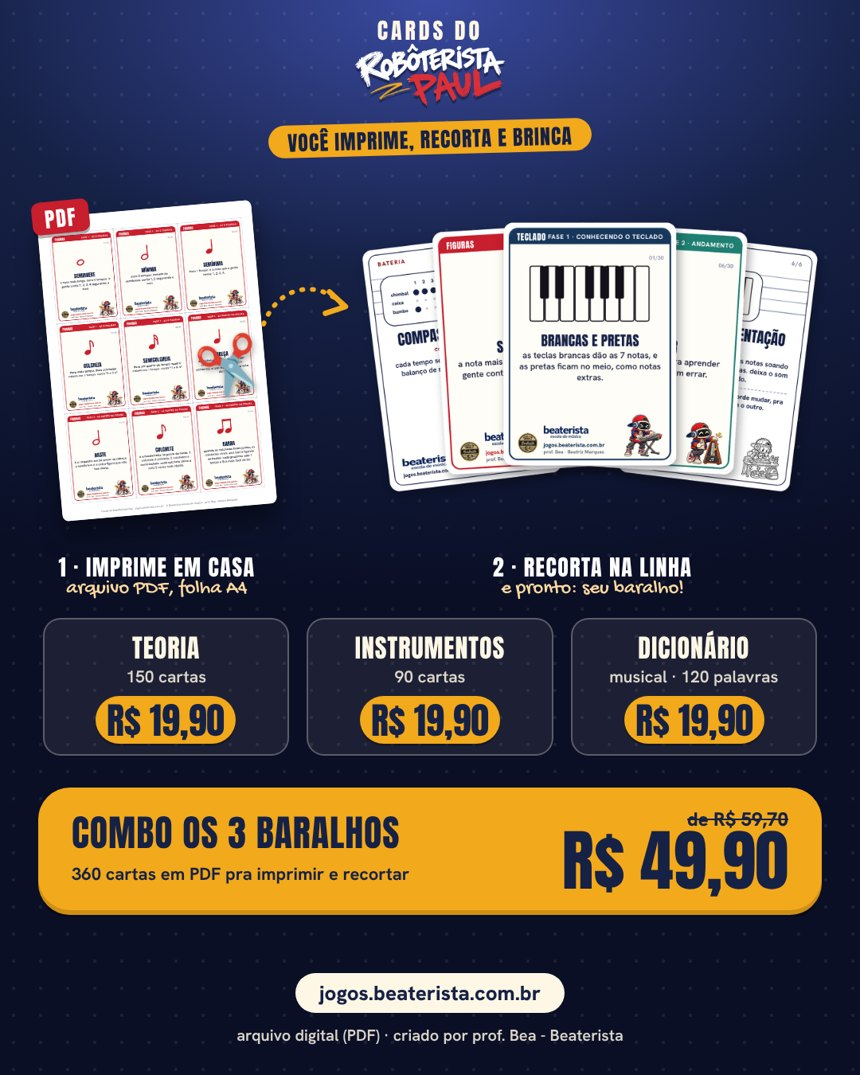
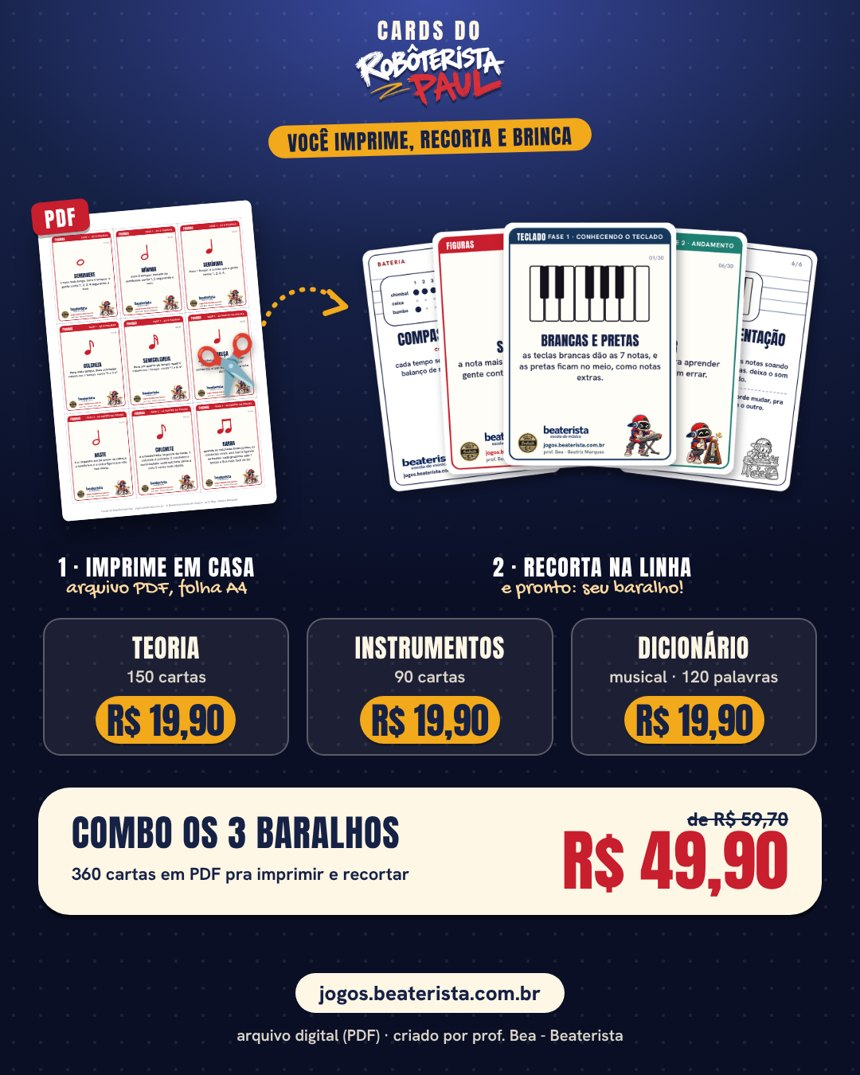
Combo e botão de compra em creme com o valor em vermelho

Changed region(s): [[0.0302, 0.706, 0.9674, 0.8595]]

diff --git a/marketing/entrada-a.html b/marketing/entrada-a.html
@@ -33,7 +33,7 @@ body{width:390px;margin:0 auto;font-family:"Hanken Grotesk",system-ui,sans-serif
 .tel div{background:#14111a;border-radius:26px;padding:6px;box-shadow:0 8px 0 rgba(0,0,0,.4)}.tel img{display:block;width:100%;border-radius:20px}.tel p{margin-top:9px;opacity:.9}
 .prod{flex:none;width:150px;scroll-snap-align:start;background:#fff7e6;color:#162146;border-radius:16px;overflow:hidden;box-shadow:0 6px 0 rgba(0,0,0,.4);font:800 12px/1.2 "Hanken Grotesk"}.prod img{display:block;width:100%;aspect-ratio:1;object-fit:cover}.prod p{padding:8px 9px 10px}.prod small{display:block;font:700 10.5px/1.2 "Hanken Grotesk";opacity:.7;margin-top:2px}
 .sobre{position:relative;margin:26px 16px 0;font:600 14px/1.45 "Hanken Grotesk"}.sobre p{margin-bottom:10px}.pq2{margin:8px 0 6px}.pq2 img{display:block;width:100%;border-radius:18px;box-shadow:0 8px 0 rgba(0,0,0,.4)}.pqp{position:relative;display:flex;align-items:center;gap:12px;margin:14px 16px 0;background:rgba(255,255,255,.08);border:1.5px solid rgba(255,255,255,.22);border-radius:16px;padding:8px 14px 8px 8px;cursor:pointer}.pqp img{width:64px;height:64px;object-fit:cover;object-position:top;border-radius:10px;flex:none}.pqp b{font:400 19px/1 Anton;text-transform:uppercase;letter-spacing:.03em;display:block}.pqp p{font:600 12px/1.3 "Hanken Grotesk";margin:3px 0 0;opacity:.85}.pqp span{margin-left:auto;font:400 26px/1 Anton;color:#f2a91b}.pqm{position:fixed;inset:0;z-index:20;background:rgba(5,8,20,.88);display:flex;align-items:center;justify-content:center;padding:18px}.pqm[hidden]{display:none}.pqm img{width:100%;max-width:360px;border-radius:16px}.pqm i{position:absolute;right:16px;top:14px;font:400 34px/1 Anton;font-style:normal}.bea4{display:flex;flex-direction:column;align-items:center;text-align:center;margin-bottom:16px}.bea4 img{width:210px;height:210px;object-fit:cover;object-position:50% 50%;border-radius:50%;border:4px solid #f2a91b;box-shadow:0 8px 0 rgba(0,0,0,.4)}.bea4 b{font:400 26px/1 Anton;text-transform:uppercase;letter-spacing:.04em;margin-top:14px}.bea4 .t1{font:800 14px/1.35 "Hanken Grotesk";color:#f2a91b;margin:6px 10px 0}.bea4 .t2{text-wrap:balance;font:600 14px/1.5 "Hanken Grotesk";margin:10px 6px 0}.bea4 .fr{font:400 20px/1.2 "Gochi Hand",cursive;margin:12px 6px 0}.bea4 img.col{width:100%;height:auto;border-radius:20px;border:0;box-shadow:0 8px 0 rgba(0,0,0,.4)}.par-t{font:400 19px/1 "Gochi Hand",cursive;margin-top:14px;text-align:center}.bea2{position:relative;margin-bottom:16px}.foto2{display:block;width:100%;height:360px;object-fit:cover;object-position:50% 12%;border-radius:22px;box-shadow:0 8px 0 rgba(0,0,0,.4)}.leg2{position:absolute;left:0;right:0;bottom:0;border-radius:0 0 22px 22px;padding:36px 16px 14px;background:linear-gradient(transparent,rgba(10,15,38,.92))}.leg2 b{font:400 22px/1 Anton;text-transform:uppercase;letter-spacing:.04em}.bea3{display:flex;justify-content:center;margin:6px 0 20px}.pol{position:relative;width:250px;background:#fffdf7;color:#162146;padding:12px 12px 14px;border-radius:6px;transform:rotate(-2.5deg);box-shadow:0 10px 0 rgba(0,0,0,.4)}.pol .fita{position:absolute;left:50%;top:-10px;width:80px;height:22px;margin-left:-40px;background:rgba(242,169,27,.85);transform:rotate(3deg)}.foto3{height:210px;background:#e8e2d4;display:flex;align-items:center;justify-content:center;text-align:center;font:800 12px "Hanken Grotesk";color:#8a7d5a}.pol .fr{color:#162146!important;margin-top:10px!important;font-size:21px!important;text-align:center}.pol b{display:block;text-align:right;font:400 16px/1 Anton;text-transform:uppercase;letter-spacing:.04em;margin-top:6px}.sobre .par{display:flex;justify-content:center;margin-top:10px}.sobre .par img{width:88%}.bea{display:flex;align-items:center;gap:14px;margin-bottom:14px}.bea .foto{flex:none;width:92px;height:92px;border-radius:50%;border:2.5px dashed #f2a91b;display:flex;align-items:center;justify-content:center;text-align:center;font:800 11px/1.2 "Hanken Grotesk";color:#f2a91b}.bea b{font:400 20px/1 Anton;text-transform:uppercase;letter-spacing:.04em}.bea .fr{font:400 19px/1.15 "Gochi Hand",cursive;margin:6px 0 0;color:#fff7e6}
-.pq{padding:0 16px 12px;font:600 13.5px/1.4 "Hanken Grotesk"}.pq b{color:#f2a91b;font-weight:800}.prod2{flex:none;width:210px;scroll-snap-align:start;background:#fff7e6;color:#162146;border-radius:18px;overflow:hidden;box-shadow:0 6px 0 rgba(0,0,0,.4);position:relative;font:700 12px/1.3 "Hanken Grotesk"}.prod2 img{display:block;width:100%;aspect-ratio:1;object-fit:cover}.prod2 p{padding:8px 12px 0;margin:0}.prod2 .t{display:block;font:400 17px/1 Anton;text-transform:uppercase}.prod2 small{display:block;opacity:.7;font:700 11px/1.2 "Hanken Grotesk";margin-top:2px}.prod2 .d{font-weight:600}.prod2 .a{padding:6px 12px 12px;font:800 11px/1.3 "Hanken Grotesk";color:#b8162b}.prod2 .tag{position:absolute;left:10px;top:10px;z-index:2;background:#162146;color:#fff7e6;border-radius:99px;padding:5px 10px;font:800 10px "Hanken Grotesk";text-transform:uppercase;letter-spacing:.08em}.prod2 .pr{display:inline-block;background:#f2a91b;color:#162146;font:400 20px/1 Anton;border-radius:99px;padding:6px 14px 5px;margin:4px 12px 14px}.cv{margin:6px 16px 0}.cv img{display:block;width:100%;border-radius:18px;box-shadow:0 8px 0 rgba(0,0,0,.4)}.pq.cta{padding-top:14px}.ibr{font:400 24px/1.1 Anton,sans-serif;text-transform:uppercase;letter-spacing:.03em;text-align:center;margin:18px 16px 0}.ibr span{color:#f2a91b}.comousar{display:grid;grid-template-columns:repeat(3,1fr);gap:8px;margin:14px 16px 0}.c3{background:rgba(255,255,255,.08);border:1.5px solid rgba(255,255,255,.22);border-radius:14px;padding:10px 8px;text-align:center}.c3 .n{width:26px;height:26px;border-radius:50%;background:#f2a91b;color:#162146;font:400 16px/26px Anton;margin:0 auto 5px}.c3 b{display:block;font:400 14px/1 Anton;text-transform:uppercase;letter-spacing:.03em}.c3 p{font:600 9.5px/1.3 "Hanken Grotesk";margin:5px 0 0;opacity:.9}.adq{display:block;margin:16px 16px 0;background:#f2a91b;color:#162146;text-align:center;border-radius:14px;padding:15px;font:400 22px/1 Anton,sans-serif;letter-spacing:.05em;text-transform:uppercase;text-decoration:none;box-shadow:0 5px 0 rgba(0,0,0,.4)}.dir{position:relative;margin:24px 20px 28px;text-align:center;font:600 11px/1.45 "Hanken Grotesk";opacity:.75}.dir u{font-weight:800}
+.pq{padding:0 16px 12px;font:600 13.5px/1.4 "Hanken Grotesk"}.pq b{color:#f2a91b;font-weight:800}.prod2{flex:none;width:210px;scroll-snap-align:start;background:#fff7e6;color:#162146;border-radius:18px;overflow:hidden;box-shadow:0 6px 0 rgba(0,0,0,.4);position:relative;font:700 12px/1.3 "Hanken Grotesk"}.prod2 img{display:block;width:100%;aspect-ratio:1;object-fit:cover}.prod2 p{padding:8px 12px 0;margin:0}.prod2 .t{display:block;font:400 17px/1 Anton;text-transform:uppercase}.prod2 small{display:block;opacity:.7;font:700 11px/1.2 "Hanken Grotesk";margin-top:2px}.prod2 .d{font-weight:600}.prod2 .a{padding:6px 12px 12px;font:800 11px/1.3 "Hanken Grotesk";color:#b8162b}.prod2 .tag{position:absolute;left:10px;top:10px;z-index:2;background:#162146;color:#fff7e6;border-radius:99px;padding:5px 10px;font:800 10px "Hanken Grotesk";text-transform:uppercase;letter-spacing:.08em}.prod2 .pr{display:inline-block;background:#f2a91b;color:#162146;font:400 20px/1 Anton;border-radius:99px;padding:6px 14px 5px;margin:4px 12px 14px}.cv{margin:6px 16px 0}.cv img{display:block;width:100%;border-radius:18px;box-shadow:0 8px 0 rgba(0,0,0,.4)}.pq.cta{padding-top:14px}.ibr{font:400 24px/1.1 Anton,sans-serif;text-transform:uppercase;letter-spacing:.03em;text-align:center;margin:18px 16px 0}.ibr span{color:#f2a91b}.comousar{display:grid;grid-template-columns:repeat(3,1fr);gap:8px;margin:14px 16px 0}.c3{background:rgba(255,255,255,.08);border:1.5px solid rgba(255,255,255,.22);border-radius:14px;padding:10px 8px;text-align:center}.c3 .n{width:26px;height:26px;border-radius:50%;background:#f2a91b;color:#162146;font:400 16px/26px Anton;margin:0 auto 5px}.c3 b{display:block;font:400 14px/1 Anton;text-transform:uppercase;letter-spacing:.03em}.c3 p{font:600 9.5px/1.3 "Hanken Grotesk";margin:5px 0 0;opacity:.9}.adq{display:block;margin:16px 16px 0;background:#fff7e6;color:#162146;text-align:center;border-radius:14px;padding:15px;font:400 22px/1 Anton,sans-serif;letter-spacing:.05em;text-transform:uppercase;text-decoration:none;box-shadow:0 5px 0 rgba(0,0,0,.4)}.dir{position:relative;margin:24px 20px 28px;text-align:center;font:600 11px/1.45 "Hanken Grotesk";opacity:.75}.dir u{font-weight:800}
 .fixo{position:fixed;left:50%;bottom:0;transform:translateX(-50%);width:390px;max-width:100%;z-index:15;padding:10px 16px 16px;background:linear-gradient(transparent,rgba(10,15,38,.95) 40%)}.fixo a{display:block;background:#f2a91b;color:#162146;text-align:center;border-radius:14px;padding:15px;font:400 22px/1 Anton,sans-serif;letter-spacing:.05em;text-transform:uppercase;text-decoration:none;box-shadow:0 5px 0 rgba(0,0,0,.4)}body{padding-bottom:84px}</style></head><body>
 <div id="r"></div>
 <script type="module">

diff --git a/marketing/arte-cards-verde.html b/marketing/arte-cards-verde.html
@@ -1,15 +1,15 @@
 <!doctype html>
-<html lang="pt-BR"><head><meta charset="utf-8"><title>Arte dos Cards · combo em amarelo</title>
+<html lang="pt-BR"><head><meta charset="utf-8"><title>Arte dos Cards · combo em creme</title>
 <link rel="stylesheet" href="../css/fonts.css">
 <style>
 /* A arte de venda dos Cards do Paul (mandada pela Bea) com a faixa do combo refeita em VERDE (vermelho parece "errado/cancelar"). Fundo = a arte original em entrada-telas/cards-venda-original.png */
 *{box-sizing:border-box;margin:0}body{width:1080px;height:1350px;position:relative;overflow:hidden;background:#0d1a3a}
 img.bg{position:absolute;inset:0;width:1080px;height:1350px}
-.faixa{position:absolute;left:48px;top:989px;width:984px;height:160px;border-radius:40px;background:#f2a91b;box-shadow:inset 0 -6px 0 rgba(0,0,0,.15)}
+.faixa{position:absolute;left:48px;top:989px;width:984px;height:160px;border-radius:40px;background:#fff7e6;box-shadow:0 6px 0 rgba(0,0,0,.3)}
 .t{position:absolute;left:42px;top:34px;font:400 46px/1 Anton,sans-serif;color:#162146;letter-spacing:.02em;text-transform:uppercase}
 .s{position:absolute;left:42px;top:98px;font:700 22px/1 "Hanken Grotesk",sans-serif;color:#162146}
 .de{position:absolute;right:42px;top:28px;font:800 24px/1 "Hanken Grotesk",sans-serif;color:#162146;text-decoration:line-through}
-.p{position:absolute;right:42px;top:50px;font:400 84px/1 Anton,sans-serif;color:#162146}
+.p{position:absolute;right:42px;top:50px;font:400 84px/1 Anton,sans-serif;color:#c81e2d}
 .pil{position:absolute;top:874px;width:176px;height:60px;border-radius:30px;background:#f2a91b;color:#162146;text-align:center;font:400 46px/62px Anton,sans-serif;box-shadow:0 3px 0 rgba(0,0,0,.25)}</style></head><body>
 <img class="bg" src="entrada-telas/cards-venda-original.png" alt="">
 <div class="faixa"><div class="t">combo os 3 baralhos</div><div class="s">360 cartas em PDF pra imprimir e recortar</div><div class="de">de R$ 59,70</div><div class="p">R$ 49,90</div></div>
